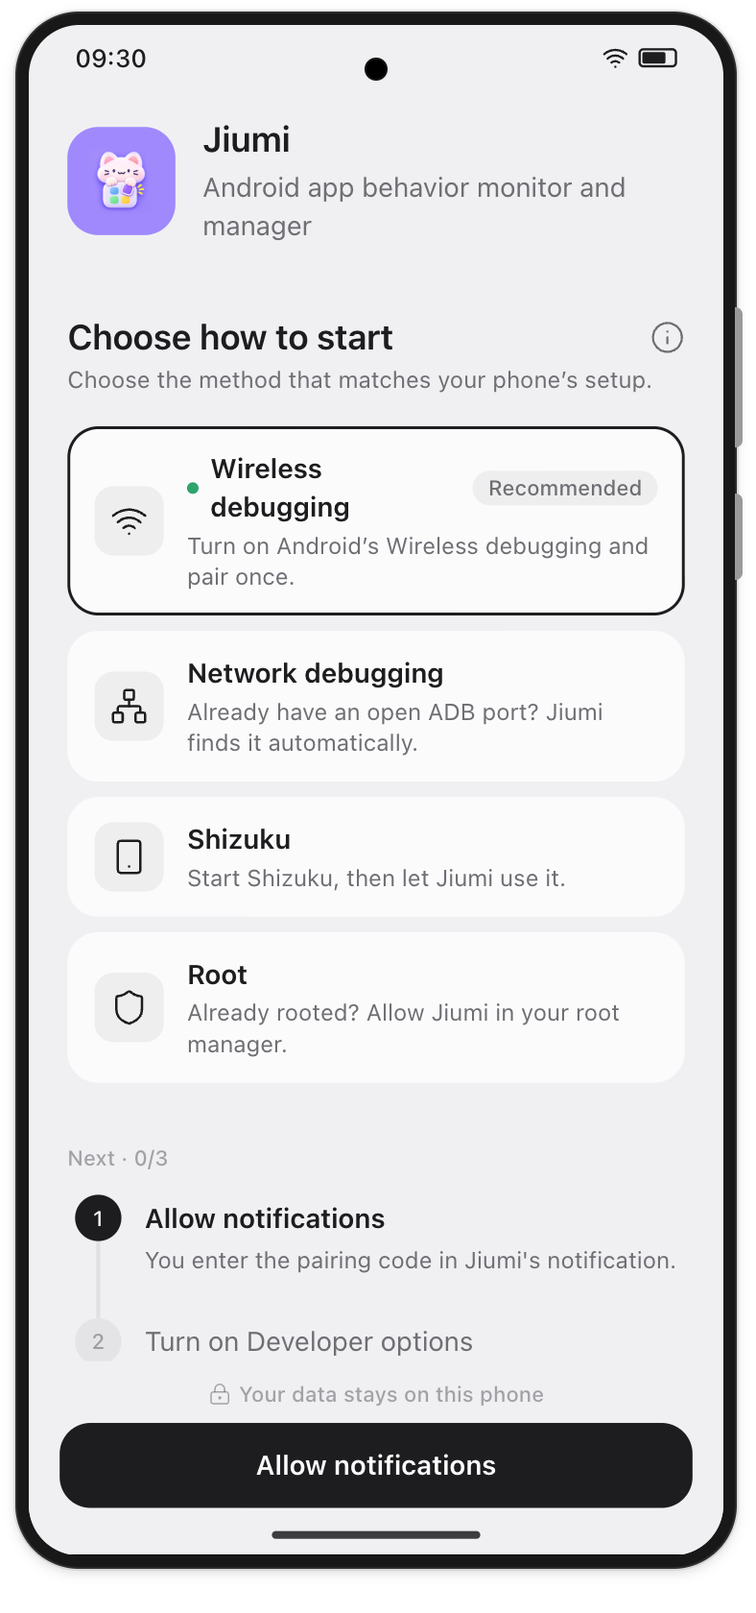
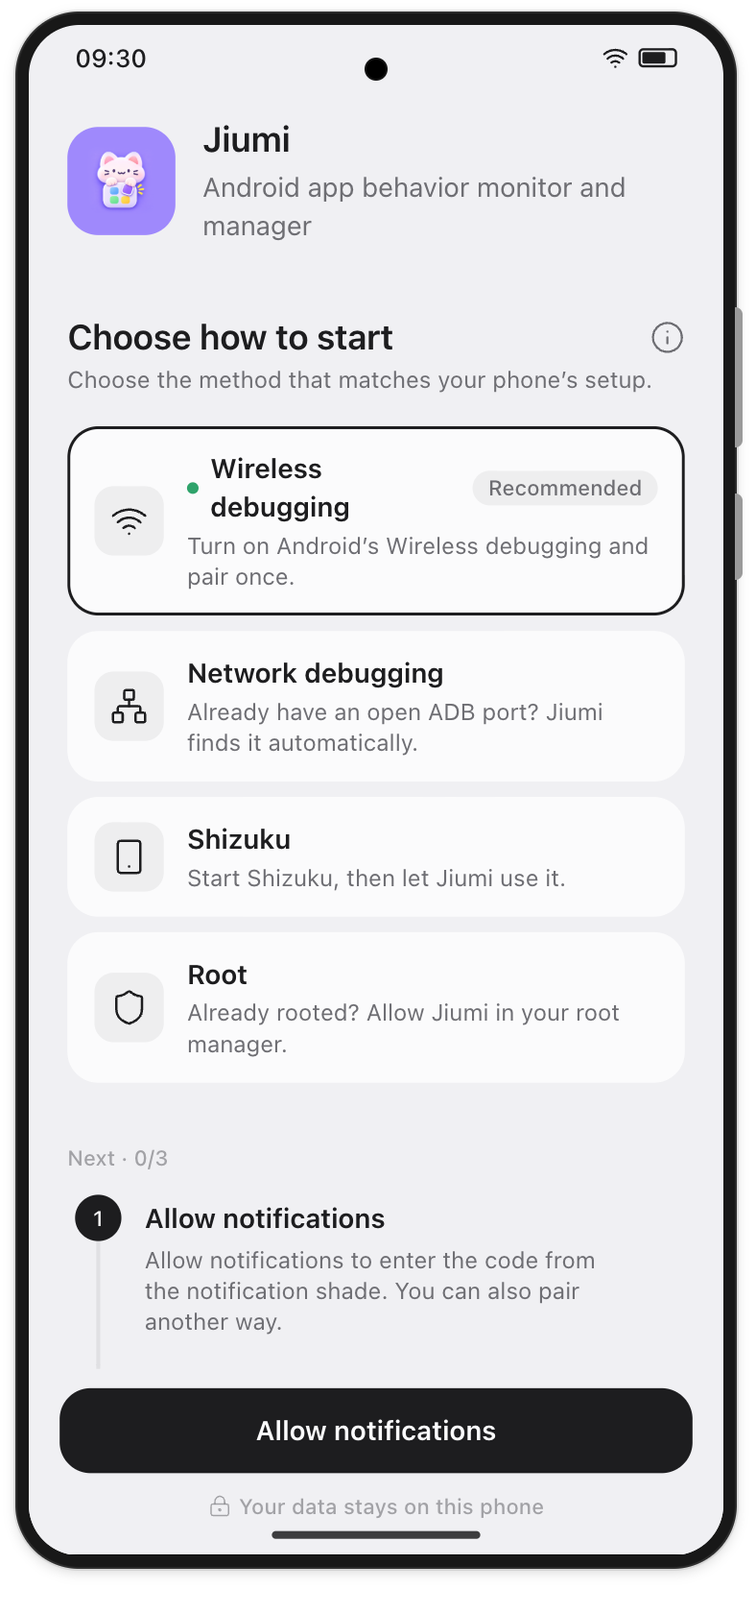
docs: describe the other ways to enter the pairing code

Changed region(s): [[0.0609, 0.7738, 0.9137, 0.9595]]

diff --git a/docs/readme/README.hi.md b/docs/readme/README.hi.md
@@ -109,7 +109,7 @@
 ## डाउनलोड करें और निगरानी शुरू करें
 
 1. Android 11 या बाद के संस्करण वाले फ़ोन पर [GitHub Releases](https://github.com/ybblab/Jiumi/releases/latest) से APK डाउनलोड करके इंस्टॉल करें।
-2. Jiumi को पहली बार खोलने पर शुरू करने का तरीका चुनें। सुझाए गए तरीके, वायरलेस डीबगिंग, के लिए Wi-Fi से जुड़ें और सेटअप के निर्देशों के अनुसार सूचनाओं की अनुमति दें और डेवलपर विकल्प चालू करें। सिस्टम में दिखने वाला छह अंकों का पेयरिंग कोड Jiumi की सूचना में डालें। ADB पोर्ट पहले से खुला हो तो नेटवर्क डीबगिंग भी चुन सकते हैं।
+2. Jiumi को पहली बार खोलने पर शुरू करने का तरीका चुनें। सुझाए गए तरीके, वायरलेस डीबगिंग, के लिए Wi-Fi से जुड़ें और सेटअप के निर्देशों के अनुसार सूचनाओं की अनुमति दें और डेवलपर विकल्प चालू करें। सिस्टम में दिखने वाला छह अंकों का पेयरिंग कोड Jiumi की सूचना में डालें। अगर सूचना में कोड नहीं डाल पा रहे, तो चरण 3 में “Can’t type in the notification?” पर टैप करें और कोड स्प्लिट स्क्रीन, छोटी विंडो या क्विक सेटिंग्स टाइल से डालें। ADB पोर्ट पहले से खुला हो तो नेटवर्क डीबगिंग भी चुन सकते हैं।
 3. **Monitor** स्क्रीन पर **Start monitoring** दबाएँ। निगरानी चालू रहने तक एक सूचना बनी रहती है। निगरानी सूचना या ऐप से रोकी जा सकती है।
 
 फ़ोन के रीस्टार्ट, Jiumi के अपडेट या डीबगिंग सेवा में रुकावट के बाद, चुना हुआ कनेक्शन उपलब्ध होने पर Jiumi उसी सत्र को जारी रखने की कोशिश करता है और ऐप में लौटने पर फिर कोशिश करता है। कार्ड में **Monitoring interrupted** दिखे, तो कनेक्शन बहाल करें और **Resume** दबाएँ। रुकावट की अवधि निगरानी की अवधि में नहीं जुड़ती।

diff --git a/docs/readme/README.ru.md b/docs/readme/README.ru.md
@@ -109,7 +109,7 @@
 ## Скачать и запустить мониторинг
 
 1. На телефоне с Android 11 или новее скачайте и установите APK со страницы [GitHub Releases](https://github.com/ybblab/Jiumi/releases/latest).
-2. При первом запуске Jiumi выберите способ запуска. Для рекомендуемой беспроводной отладки подключитесь к Wi-Fi и следуйте подсказкам, чтобы разрешить уведомления и включить параметры разработчика. Введите в уведомлении Jiumi шестизначный код сопряжения, показанный системой. Если порт ADB уже открыт, можно выбрать и сетевую отладку.
+2. При первом запуске Jiumi выберите способ запуска. Для рекомендуемой беспроводной отладки подключитесь к Wi-Fi и следуйте подсказкам, чтобы разрешить уведомления и включить параметры разработчика. Введите в уведомлении Jiumi шестизначный код сопряжения, показанный системой. Если уведомление недоступно, нажмите “Can’t type in the notification?” на шаге 3 и введите код в режиме разделённого экрана, в маленьком окне или через плитку быстрых настроек. Если порт ADB уже открыт, можно выбрать и сетевую отладку.
 3. На странице **Monitor** нажмите **Start monitoring**. Во время мониторинга отображается постоянное уведомление. Остановить мониторинг можно из уведомления или приложения.
 
 После перезагрузки телефона, обновления Jiumi или перебоя в работе службы отладки Jiumi пытается продолжить тот же сеанс, когда выбранное подключение доступно, и повторяет попытку при возвращении в приложение. Если в карточке отображается **Monitoring interrupted**, восстановите подключение и нажмите **Resume**. Время перерыва не включается в длительность мониторинга.

diff --git a/docs/readme/README.ja.md b/docs/readme/README.ja.md
@@ -109,7 +109,7 @@ Android は、アプリの実行に伴って権限アクセス記録、接続テ
 ## ダウンロードしてモニタリングを開始する
 
 1. Android 11 以降のスマートフォンで、[GitHub Releases](https://github.com/ybblab/Jiumi/releases/latest) から APK をダウンロードしてインストールします。
-2. Jiumi を初めて開いたときに起動方法を選択します。推奨されるワイヤレスデバッグの場合は、Wi-Fi に接続し、セットアップに従って通知を許可し、開発者向けオプションをオンにして、Jiumi の通知にシステムの 6 桁のペアリングコードを入力します。ADB ポートがすでに開いている場合は、ネットワークデバッグも選べます。
+2. Jiumi を初めて開いたときに起動方法を選択します。推奨されるワイヤレスデバッグの場合は、Wi-Fi に接続し、セットアップに従って通知を許可し、開発者向けオプションをオンにして、Jiumi の通知にシステムの 6 桁のペアリングコードを入力します。通知から入力できない場合は、ステップ 3 で “Can’t type in the notification?” をタップし、分割画面、小さいウィンドウ、またはクイック設定タイルからコードを入力します。ADB ポートがすでに開いている場合は、ネットワークデバッグも選べます。
 3. Monitor ページで Start monitoring をタップします。モニタリング中は常駐通知が表示されます。モニタリングは通知またはアプリから停止できます。
 
 スマートフォンの再起動、Jiumi のアップデート、デバッグサービスの中断のあと、選択した接続が利用可能であれば Jiumi は同じセッションの再開を試みます。アプリに戻ったときにも再試行します。カードに Monitoring interrupted と表示された場合は、接続を復旧してから Resume をタップします。中断していた時間はモニタリング時間に含まれません。

diff --git a/docs/readme/README.fr.md b/docs/readme/README.fr.md
@@ -109,7 +109,7 @@ La **journalisation facultative des domaines** utilise un VPN local pour recevoi
 ## Télécharger et démarrer la surveillance
 
 1. Sur un téléphone équipé d’Android 11 ou d’une version ultérieure, téléchargez et installez l’APK depuis [GitHub Releases](https://github.com/ybblab/Jiumi/releases/latest).
-2. Au premier lancement de Jiumi, choisissez un mode de démarrage. Pour le débogage sans fil, qui est le mode recommandé, connectez-vous au Wi-Fi et suivez la procédure pour autoriser les notifications et activer les options pour les développeurs. Saisissez dans la notification de Jiumi le code d’association à six chiffres affiché par le système. Si un port ADB est déjà ouvert, vous pouvez aussi choisir le débogage réseau.
+2. Au premier lancement de Jiumi, choisissez un mode de démarrage. Pour le débogage sans fil, qui est le mode recommandé, connectez-vous au Wi-Fi et suivez la procédure pour autoriser les notifications et activer les options pour les développeurs. Saisissez dans la notification de Jiumi le code d’association à six chiffres affiché par le système. Si la notification n’est pas utilisable, touchez “Can’t type in the notification?” à l’étape 3 et saisissez le code en écran partagé, dans une petite fenêtre ou via la vignette des Réglages rapides. Si un port ADB est déjà ouvert, vous pouvez aussi choisir le débogage réseau.
 3. Dans l’écran **Monitor**, appuyez sur **Start monitoring**. Une notification permanente s’affiche tant que la surveillance est active. Vous pouvez arrêter la surveillance depuis la notification ou l’application.
 
 Après un redémarrage du téléphone, une mise à jour de Jiumi ou une interruption du service de débogage, Jiumi tente de reprendre la même session lorsque la connexion choisie est disponible, puis à nouveau quand vous revenez dans l’application. Si la carte affiche **Monitoring interrupted**, rétablissez la connexion puis appuyez sur **Resume**. Le temps d’interruption n’est pas compté dans la durée de surveillance.

diff --git a/docs/readme/README.de.md b/docs/readme/README.de.md
@@ -109,7 +109,7 @@ Die **optionale Domainerfassung** empfängt DNS-Anfragen über ein lokales VPN u
 ## Herunterladen und Überwachung starten
 
 1. Lade auf einem Smartphone mit Android 11 oder neuer die APK von [GitHub Releases](https://github.com/ybblab/Jiumi/releases/latest) herunter und installiere sie.
-2. Wähle beim ersten Öffnen von Jiumi eine Startmethode. Für die empfohlene Methode, drahtloses Debugging, verbinde dich mit dem WLAN und folge der Einrichtung, um Benachrichtigungen zu erlauben und die Entwickleroptionen zu aktivieren. Gib in der Benachrichtigung von Jiumi den sechsstelligen Kopplungscode ein, den Android anzeigt. Ist bereits ein ADB-Port offen, kannst du auch Netzwerk-Debugging wählen.
+2. Wähle beim ersten Öffnen von Jiumi eine Startmethode. Für die empfohlene Methode, drahtloses Debugging, verbinde dich mit dem WLAN und folge der Einrichtung, um Benachrichtigungen zu erlauben und die Entwickleroptionen zu aktivieren. Gib in der Benachrichtigung von Jiumi den sechsstelligen Kopplungscode ein, den Android anzeigt. Lässt sich die Benachrichtigung nicht nutzen, tippe in Schritt 3 auf “Can’t type in the notification?” und gib den Code stattdessen im geteilten Bildschirm, in einem kleinen Fenster oder über die Schnelleinstellungs-Kachel ein. Ist bereits ein ADB-Port offen, kannst du auch Netzwerk-Debugging wählen.
 3. Tippe auf der Seite **Monitor** auf **Start monitoring**. Während der Überwachung erscheint eine dauerhafte Benachrichtigung. Du kannst die Überwachung über die Benachrichtigung oder in der App beenden.
 
 Nach einem Neustart, einem Jiumi-Update oder einer Unterbrechung des Debugging-Dienstes versucht Jiumi, dieselbe Sitzung fortzusetzen, sobald die gewählte Verbindung verfügbar ist, und erneut, wenn du zur App zurückkehrst. Wenn die Karte **Monitoring interrupted** anzeigt, stelle die Verbindung wieder her und tippe auf **Resume**. Die Zeit der Unterbrechung zählt nicht zur Überwachungsdauer.

diff --git a/docs/readme/README.es.md b/docs/readme/README.es.md
@@ -109,7 +109,7 @@ El **registro opcional de dominios** usa una VPN local para recibir consultas DN
 ## Descargar e iniciar la monitorización
 
 1. En un teléfono con Android 11 o posterior, descarga e instala el APK desde [GitHub Releases](https://github.com/ybblab/Jiumi/releases/latest).
-2. La primera vez que abras Jiumi, elige cómo iniciarlo. Si usas la depuración inalámbrica, que es el método recomendado, conéctate a Wi-Fi y sigue las indicaciones para permitir las notificaciones y activar las opciones de desarrollador. Introduce el código de emparejamiento de seis dígitos que muestra el sistema en la notificación de Jiumi. Si ya hay un puerto ADB abierto, también puedes elegir la depuración por red.
+2. La primera vez que abras Jiumi, elige cómo iniciarlo. Si usas la depuración inalámbrica, que es el método recomendado, conéctate a Wi-Fi y sigue las indicaciones para permitir las notificaciones y activar las opciones de desarrollador. Introduce el código de emparejamiento de seis dígitos que muestra el sistema en la notificación de Jiumi. Si no puedes usar la notificación, toca “Can’t type in the notification?” en el paso 3 e introduce el código en pantalla dividida, en una ventana pequeña o desde el mosaico de Ajustes rápidos. Si ya hay un puerto ADB abierto, también puedes elegir la depuración por red.
 3. Pulsa **Start monitoring** en la pantalla **Monitor**. Mientras la monitorización esté activa, aparecerá una notificación persistente. Puedes detenerla desde la notificación o desde la aplicación.
 
 Después de reiniciar el teléfono, actualizar Jiumi o sufrir una interrupción del servicio de depuración, Jiumi intenta reanudar la misma sesión cuando la conexión seleccionada está disponible, y de nuevo cuando vuelves a la aplicación. Si la tarjeta muestra **Monitoring interrupted**, restablece la conexión y pulsa **Resume**. El tiempo de interrupción no cuenta como tiempo de monitorización.

diff --git a/docs/readme/README.pt-BR.md b/docs/readme/README.pt-BR.md
@@ -109,7 +109,7 @@ O **registro opcional de domínios** usa uma VPN local para receber consultas DN
 ## Baixar e iniciar o monitoramento
 
 1. Em um celular com Android 11 ou posterior, baixe e instale o APK em [GitHub Releases](https://github.com/ybblab/Jiumi/releases/latest).
-2. Na primeira vez que abrir o Jiumi, escolha um modo de inicialização. Para usar a depuração sem fio, que é o modo recomendado, conecte-se ao Wi-Fi e siga a configuração para permitir notificações e ativar as opções do desenvolvedor. Digite na notificação do Jiumi o código de pareamento de seis dígitos que o Android exibe. Se já houver uma porta ADB aberta, você também pode escolher a depuração por rede.
+2. Na primeira vez que abrir o Jiumi, escolha um modo de inicialização. Para usar a depuração sem fio, que é o modo recomendado, conecte-se ao Wi-Fi e siga a configuração para permitir notificações e ativar as opções do desenvolvedor. Digite na notificação do Jiumi o código de pareamento de seis dígitos que o Android exibe. Se não puder usar a notificação, toque em “Can’t type in the notification?” na etapa 3 e digite o código em tela dividida, em uma janela pequena ou pelo bloco das Configurações rápidas. Se já houver uma porta ADB aberta, você também pode escolher a depuração por rede.
 3. Na tela **Monitor**, toque em **Start monitoring**. Uma notificação persistente aparece durante o monitoramento. Você pode interrompê-lo pela notificação ou pelo app.
 
 Após uma reinicialização do celular, uma atualização do Jiumi ou uma interrupção do serviço de depuração, o Jiumi tenta retomar a mesma sessão quando a conexão escolhida está disponível e de novo quando você volta ao app. Se o cartão exibir **Monitoring interrupted**, restabeleça a conexão e toque em **Resume**. O tempo de interrupção não conta como tempo de monitoramento.

diff --git a/docs/readme/README.ko.md b/docs/readme/README.ko.md
@@ -109,7 +109,7 @@
 ## 다운로드 및 모니터링 시작
 
 1. Android 11 이상을 사용하는 휴대전화에서 [GitHub Releases](https://github.com/ybblab/Jiumi/releases/latest)의 APK를 다운로드해 설치합니다.
-2. Jiumi를 처음 열 때 시작 방법을 선택합니다. 권장 방법인 무선 디버깅을 쓰려면 Wi-Fi에 연결하고 설정 안내에 따라 알림을 허용하고 개발자 옵션을 켭니다. Android가 표시하는 6자리 페어링 코드를 Jiumi 알림에 입력합니다. ADB 포트가 이미 열려 있다면 네트워크 디버깅도 선택할 수 있습니다.
+2. Jiumi를 처음 열 때 시작 방법을 선택합니다. 권장 방법인 무선 디버깅을 쓰려면 Wi-Fi에 연결하고 설정 안내에 따라 알림을 허용하고 개발자 옵션을 켭니다. Android가 표시하는 6자리 페어링 코드를 Jiumi 알림에 입력합니다. 알림에서 입력할 수 없다면 3단계에서 “Can’t type in the notification?”를 눌러 화면 분할, 작은 창 또는 빠른 설정 타일에서 코드를 입력합니다. ADB 포트가 이미 열려 있다면 네트워크 디버깅도 선택할 수 있습니다.
 3. **Monitor** 화면에서 **Start monitoring**을 누릅니다. 모니터링 중에는 상시 알림이 표시됩니다. 알림이나 앱에서 모니터링을 중지할 수 있습니다.
 
 휴대전화가 재시작되거나 Jiumi가 업데이트되거나 디버깅 서비스가 중단되면, 선택한 연결을 사용할 수 있을 때 Jiumi가 같은 세션을 이어 가려고 시도하며, 앱으로 돌아올 때 다시 시도합니다. 카드에 **Monitoring interrupted**가 표시되면 연결을 복구한 뒤 **Resume**을 누릅니다. 중단된 시간은 모니터링 시간에 포함되지 않습니다.

diff --git a/docs/readme/README.id.md b/docs/readme/README.id.md
@@ -109,7 +109,7 @@ Keempatnya menjalankan monitor sebagai pengguna shell. Hanya root, atau Shizuku 
 ## Mengunduh dan mulai memantau
 
 1. Pada ponsel dengan Android 11 atau lebih baru, unduh dan pasang APK dari [GitHub Releases](https://github.com/ybblab/Jiumi/releases/latest).
-2. Saat pertama membuka Jiumi, pilih metode untuk memulai. Jika menggunakan proses debug nirkabel, yaitu metode yang disarankan, sambungkan ke Wi-Fi dan ikuti panduan untuk mengizinkan notifikasi dan mengaktifkan opsi developer. Masukkan kode penyambungan enam digit yang ditampilkan sistem ke notifikasi Jiumi. Jika port ADB sudah terbuka, Anda juga dapat memilih proses debug jaringan.
+2. Saat pertama membuka Jiumi, pilih metode untuk memulai. Jika menggunakan proses debug nirkabel, yaitu metode yang disarankan, sambungkan ke Wi-Fi dan ikuti panduan untuk mengizinkan notifikasi dan mengaktifkan opsi developer. Masukkan kode penyambungan enam digit yang ditampilkan sistem ke notifikasi Jiumi. Jika notifikasi tidak dapat digunakan, ketuk “Can’t type in the notification?” di langkah 3 lalu masukkan kode lewat layar terpisah, jendela kecil, atau kartu Setelan Cepat. Jika port ADB sudah terbuka, Anda juga dapat memilih proses debug jaringan.
 3. Ketuk **Start monitoring** pada halaman **Monitor**. Selama pemantauan berlangsung, notifikasi tetap muncul. Anda dapat menghentikan pemantauan dari notifikasi atau dari aplikasi.
 
 Setelah ponsel dimulai ulang, Jiumi diperbarui, atau layanan debug terputus, Jiumi mencoba melanjutkan sesi yang sama saat koneksi yang dipilih tersedia, dan mencoba lagi saat Anda kembali ke aplikasi. Jika kartu menampilkan **Monitoring interrupted**, pulihkan koneksi lalu ketuk **Resume**. Waktu saat pemantauan terputus tidak dihitung sebagai durasi pemantauan.

diff --git a/docs/readme/README.en.md b/docs/readme/README.en.md
@@ -109,7 +109,7 @@ All four run the monitor as the shell user. Only root, or Shizuku started with r
 ## Download and start monitoring
 
 1. On a phone running Android 11 or later, download and install the APK from [GitHub Releases](https://github.com/ybblab/Jiumi/releases/latest).
-2. Choose a launch method on first opening Jiumi. For wireless debugging, the recommended method, connect to Wi-Fi and follow the setup to allow notifications, turn on Developer options and enter the six-digit system pairing code in Jiumi's notification. If an ADB port is already open, you can choose network debugging instead.
+2. Choose a launch method on first opening Jiumi. For wireless debugging, the recommended method, connect to Wi-Fi and follow the setup to allow notifications, turn on Developer options and enter the six-digit system pairing code in Jiumi's notification. If the notification can’t be used, tap “Can’t type in the notification?” in step 3 and enter the code in split screen, a small window or the Quick Settings tile instead. If an ADB port is already open, you can choose network debugging instead.
 3. Tap Start monitoring on the Monitor page. A persistent notification appears while monitoring is running. You can stop monitoring from the notification or the app.
 
 After a phone restart, a Jiumi update or an interruption to the debugging service, Jiumi tries to resume the same session when the selected connection is available, and again when you return to the app. If the card shows Monitoring interrupted, restore the connection and tap Resume. Interrupted time does not count toward monitored time.

diff --git a/README.md b/README.md
@@ -109,7 +109,7 @@ Android 在应用运行时会产生权限访问记录、连接表、系统跟踪
 ## 下载与开始监测
 
 1. 在 Android 11 或更高版本的手机上，从 [GitHub Releases](https://github.com/ybblab/Jiumi/releases/latest) 下载并安装 APK。
-2. 首次打开时选择启动方式。推荐使用无线调试：连接 Wi-Fi，按引导允许通知、开启开发者选项，并在揪咪的通知里输入系统显示的 6 位配对码。手机已开启 ADB 端口时，也可以选择网络调试。
+2. 首次打开时选择启动方式。推荐使用无线调试：连接 Wi-Fi，按引导允许通知、开启开发者选项，并在揪咪的通知里输入系统显示的 6 位配对码。通知栏输不了时，在第 3 步点「通知栏输不了配对码？」，改用分屏、小窗或快捷设置磁贴输入。手机已开启 ADB 端口时，也可以选择网络调试。
 3. 到「监测」页点「开始监测」。监测期间通知栏会显示常驻通知，可以从通知或 App 停止监测。
 
 重启手机、更新揪咪或调试服务中断后，揪咪会在所选连接可用时尝试续上同一次监测，回到揪咪时也会再试一次。如果卡片显示「监测已中断」，请恢复所选连接后点「恢复」。中断的时间不计入监测时长。

diff --git a/CHANGELOG.md b/CHANGELOG.md
@@ -6,6 +6,10 @@ Versions follow [Semantic Versioning](https://semver.org).
 
 ## [Unreleased]
 
+- **Add other ways to enter the pairing code.** When Jiumi’s notification can’t be used with the pairing dialog open, tap “Can’t type in the notification?” in the setup step and pick one way: split screen or a small window, or the “Jiumi pairing” Quick Settings tile. Each way has its own animation and steps.
+- The pairing code page tells you whether Jiumi is sharing the screen, opens Wireless debugging beside Jiumi in split screen, and confirms when pairing succeeds.
+- Fixed reading system access history on Android 17.
+
 ## [0.4.1] - 2026-11-23
 
 - Improved freeze and unfreeze compatibility. Jiumi tries an alternate method after verifying that the primary method left the app state unchanged.
